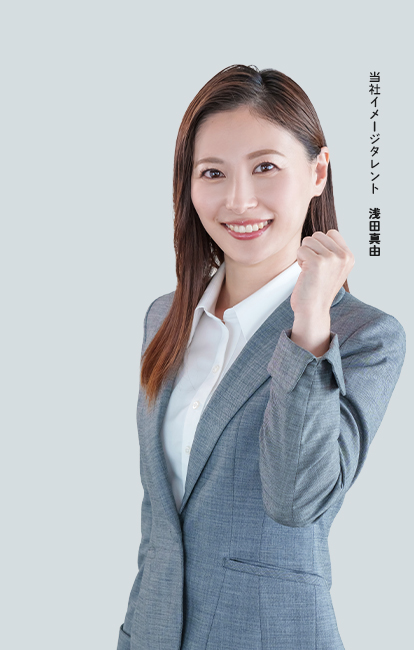
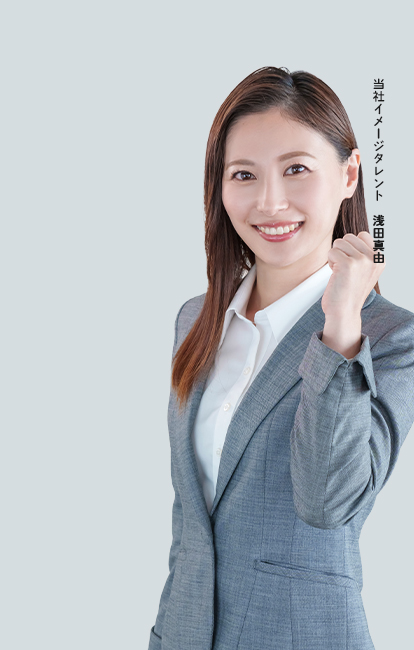
メインイメージサイズ調整
iPhoneXなど

diff --git a/src/css/main.scss b/src/css/main.scss
@@ -936,9 +936,14 @@ img {
     padding: 30px;
     padding: 10px;
   }
-  @media not screen and (min-width: 376px) {
-    height: 600px;
+  @media not screen and (min-width: 481px) {
+    height: 100vh;
   }
+
+  @media screen and (max-width: 376px) and (min-height: 668px) {
+    height: 80vh;
+  }
+
   @media not screen and (min-width: 321px) {
     height: 100vh;
   }

diff --git a/src/components/MainimageBg.js b/src/components/MainimageBg.js
@@ -15,7 +15,7 @@ const MainimageBg = () => {
         setDeviceType('desktop_s');
       } else if (width <= 768 && width > 480) {
         setDeviceType('tablet');
-      } else if (width <= 400 && width > 320) {
+      } else if (width <= 480 && width > 376) {
         setDeviceType('mobile');
       } else {
         setDeviceType('mobile_s');
